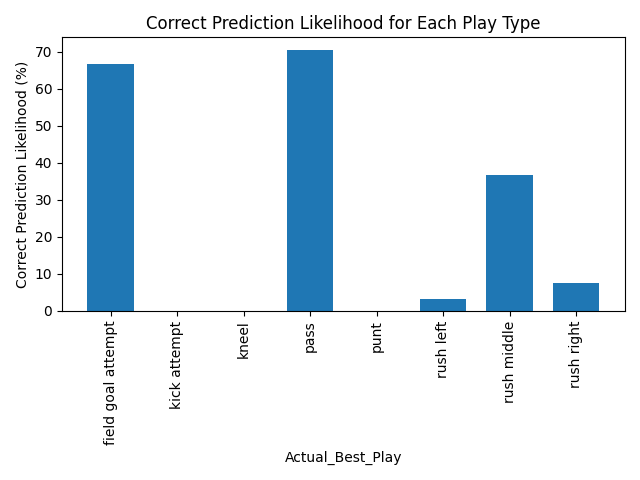
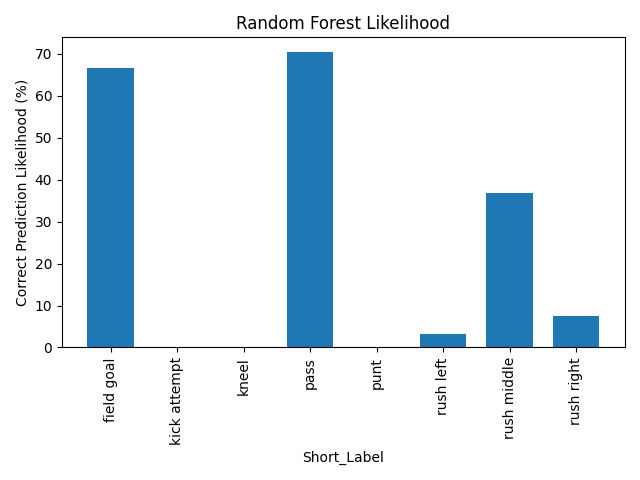
changed field goal to two words

diff --git a/random_forest/random_forest_graph.py b/random_forest/random_forest_graph.py
@@ -4,8 +4,11 @@ import matplotlib.pyplot as plt
 # Load the results CSV file
 results_df = pd.read_csv('predictions_results.csv')
 
+# Extract the first two words from each label
+results_df['Short_Label'] = results_df['Actual_Best_Play'].apply(lambda x: ' '.join(x.split()[:2]))
+
 # Calculate the likelihood of correct predictions for each play type
-correct_prediction_likelihood = results_df.groupby('Actual_Best_Play')['Correct_Prediction'].mean()
+correct_prediction_likelihood = results_df.groupby('Short_Label')['Correct_Prediction'].mean()
 
 # Plot a bar graph with wider bars and rotated x-axis labels
 bar_width = 0.7
@@ -14,9 +17,9 @@ plt.bar(correct_prediction_likelihood.index, correct_prediction_likelihood * 100
 # Rotate x-axis labels and adjust their alignment
 plt.xticks(rotation='vertical', ha='center')
 
-plt.xlabel('Actual_Best_Play')
+plt.xlabel('Short_Label')
 plt.ylabel('Correct Prediction Likelihood (%)')
-plt.title('Correct Prediction Likelihood for Each Play Type')
+plt.title('Random Forest Likelihood')
 
 # Save the plot as an image file (e.g., PNG)
 plt.tight_layout()
